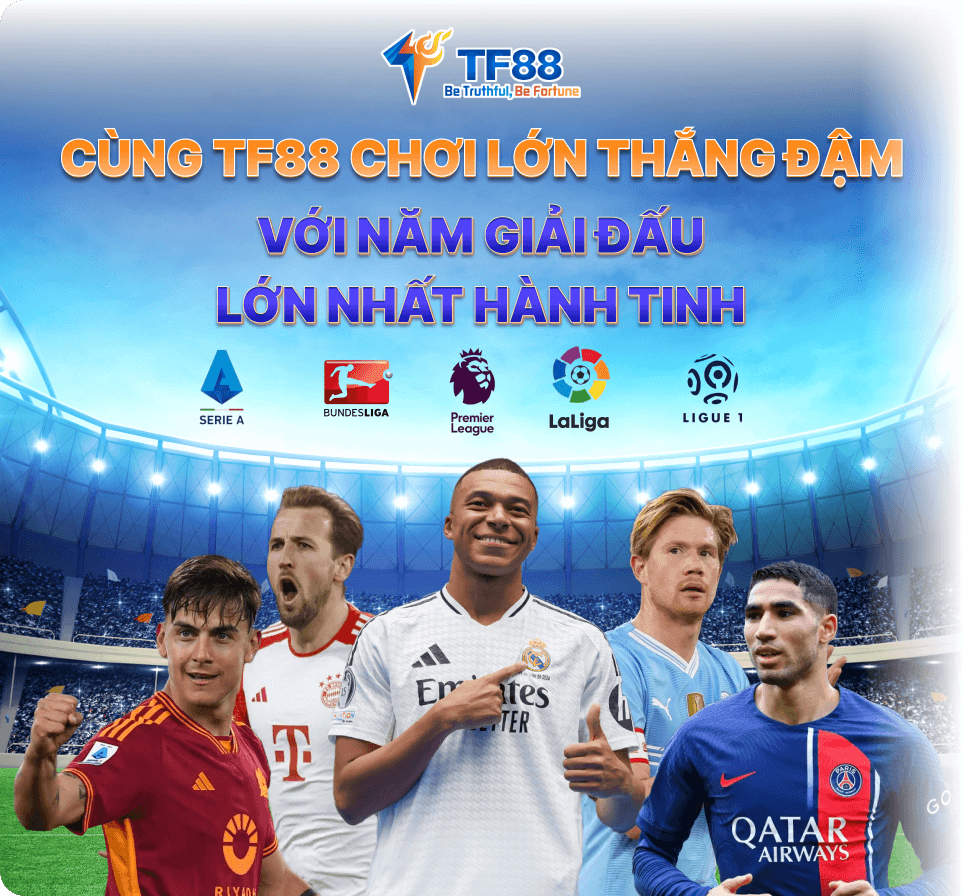
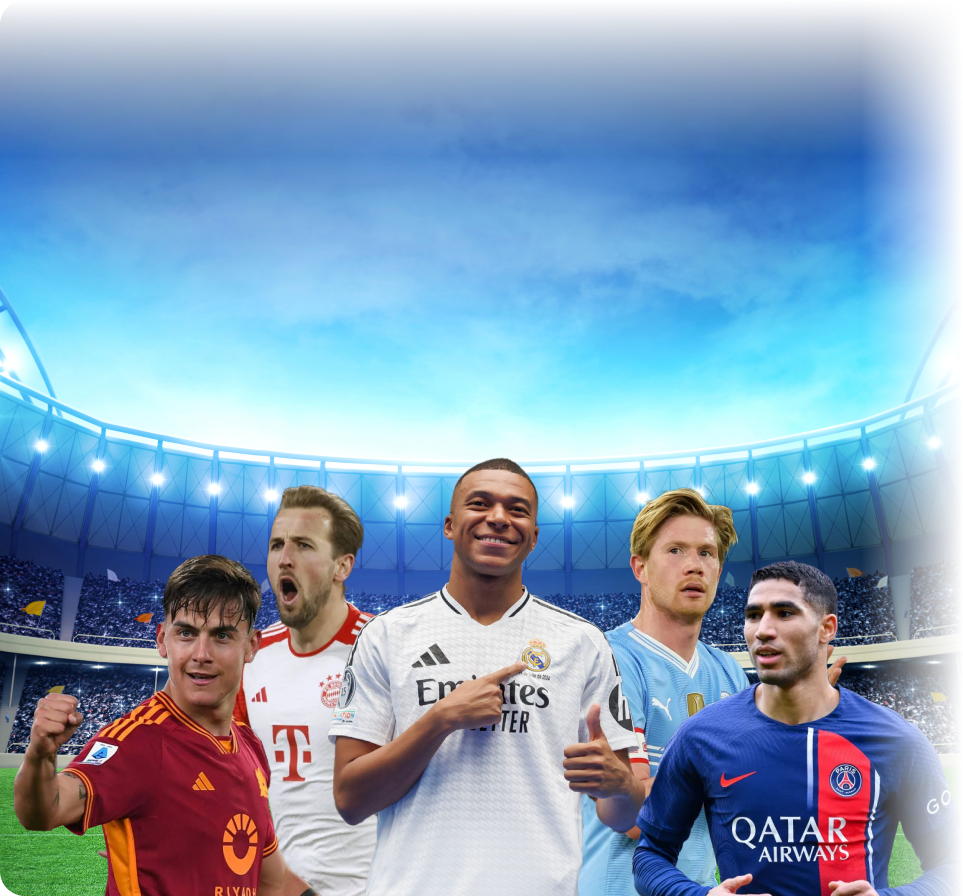
fix: [vnm] update page.

diff --git a/vnm-static-web/src/components/layout/CommonHeader.vue b/vnm-static-web/src/components/layout/CommonHeader.vue
@@ -375,10 +375,9 @@
     <el-dialog
       class="acc-dialog"
       v-model="registerDialogVisible"
-      width="1440px"
+      width="1200px"
       align-center
       @close="store.regPageVisible = false"
-      style="transform: scale(.8);"
     >
       <div class="acc-dialog-container signup-container">
         <div class="acc-dialog-left">
@@ -2709,7 +2708,7 @@ body {
           background-position: center center;
           // min-height: 750px;
           // background-color:salmon;
-
+          overflow: hidden;
           img {
             display: block;
             // width: 100%;
@@ -2718,8 +2717,13 @@ body {
             width: calc(80% + 70px);
             margin: -190px 0px -10px -20px;
             &.paris {
-              width: 100%;
               margin: 0;
+              // height: 100%;
+              // width: unset;
+              // max-width: 110%;
+              // margin-left: -5%;
+              margin-left: -5%;
+              width: 110%;
             }
           }
         }
@@ -2727,7 +2731,7 @@ body {
 
       .acc-dialog-right {
         width: 40%;
-        padding: 24px 24px 24px 0;
+        padding: 24px 24px 5px 24px;
 
         .acc-dialog-content {
           padding-top: 26px;

diff --git a/vnm-static-web/src/components/auth/RegisterAccount.vue b/vnm-static-web/src/components/auth/RegisterAccount.vue
@@ -135,9 +135,11 @@
 
     <div style="margin-top:16px;padding-bottom:4px;text-align:center;">
       {{ $t("login.already_have_acc") }}
-      <router-link to="/login">
-        {{ $t("login.login_here") }}
-      </router-link>
+      <!-- <router-link to="/login"> -->
+        <a @click="openLoginDialog">
+          {{ $t("login.login_here") }}
+        </a>
+      <!-- </router-link> -->
     </div>
   </div>
 
